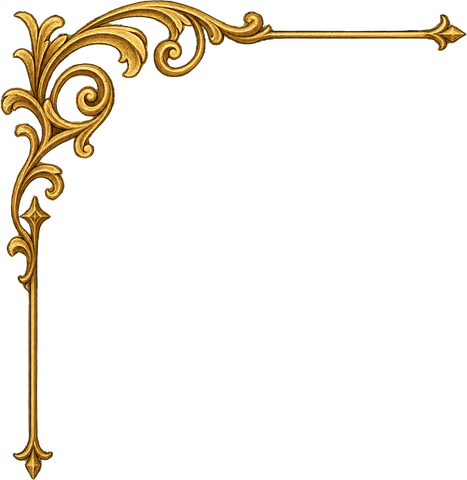
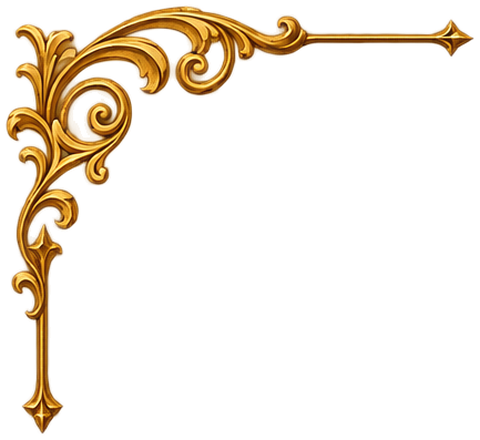
Decorate mail + hamburger-menu screens with the new ornament asset kit
User supplied a full sprite sheet (corners, dividers, wax seals, ribbons,
frames) and asked to place pieces across the UI "for beauty." Extracted
the pieces automatically via connected-component labeling on the alpha
channel (scipy.ndimage.label) rather than asking for hand-cut assets —
confirmed the sheet's "red glow" complaint was just non-premultiplied
alpha (garbage RGB left under fully-transparent pixels, which some
viewers blend in at edges); zeroed it out during extraction and the
red haze is gone.

Applied, scoped to what's clearly additive and safe:
- images/ui/mail-corner.png swapped for a richer, more detailed corner
  flourish from the new kit (same filename, no markup changes needed).
- New images/ui/mail-divider.png (plain gold bar) under the mail tab row,
  replacing a flat CSS border-top.
- New images/ui/mail-seal.png (round wax seal) replaces icon-army.png as
  the battle-report list icon, still tinted win/lose via the existing
  CSS filters.
- Gold corner flourishes added to #menu-modal itself (static markup, not
  regenerated per-tab) — benefits Войско/Генерал/Инвентарь/Профиль in one
  change. Deliberately did NOT touch #menu-modal's dark vellum-on-wood
  color scheme to match the light-parchment reference screenshots (that's
  a much bigger, harder-to-reverse redesign decision than "add decor" —
  gold reads well on dark too, so the corners work without it).

Verified: no 404s for any of the new/changed assets, screenshots of the
[…]

Changed region(s): [[0.0, 0.0, 1.0, 1.0]]

diff --git a/index.html b/index.html
@@ -285,6 +285,21 @@ body::before{content:"";position:fixed;inset:0;pointer-events:none;z-index:0;
 #menu-modal{position:fixed;inset:0;z-index:25;display:none;background:rgba(8,5,2,.72);
   overflow-y:auto}
 #menu-modal.open{display:block}
+/* Золотые уголки поверх тёмной подложки #menu-modal — тот же ассет, что и
+   в почте (.mail-corner), не нужно менять тёмную цветовую схему Войска/
+   Генерала/Инвентаря/Профиля целиком ради декора: золото на тёмном фоне
+   само по себе смотрится нарядно. position:fixed (не absolute), потому что
+   #menu-modal сам по себе fixed и скроллится своим overflow-y — уголки
+   должны оставаться приклеенными к углам ЭКРАНА, а не уезжать со скроллом
+   контента. Лежат в статичной разметке #menu-modal (см. index.html), а не
+   генерируются в каждой foArmy/foGen/foInv/foMail — иначе живое обновление
+   #menu-modal-body раз в секунду пересоздавало бы и их без всякой пользы. */
+.menu-corner{position:fixed;width:110px;height:auto;pointer-events:none;
+  opacity:.8;z-index:24}
+.menu-corner.tl{top:0;left:0}
+.menu-corner.tr{top:0;right:0;transform:scaleX(-1)}
+.menu-corner.bl{bottom:0;left:0;transform:scaleY(-1)}
+.menu-corner.br{bottom:0;right:0;transform:scale(-1,-1)}
 #menu-modal-body{max-width:560px;margin:0 auto;padding:60px 16px 30px}
 #menu-modal-close{position:fixed;top:14px;right:14px;z-index:26;width:38px;height:38px;
   border-radius:50%;background:rgba(22,17,11,.9);border:1px solid var(--gilt-dim);
@@ -438,8 +453,9 @@ body::before{content:"";position:fixed;inset:0;pointer-events:none;z-index:0;
 .mail-tabs button.on{background:rgba(236,226,202,.9);color:#2c2114;font-weight:bold}
 .mail-tabs button .n{position:absolute;top:-6px;right:2px;min-width:15px;height:15px;padding:0 3px;
   border-radius:8px;background:#8a2f22;color:#fce9c9;font-size:9.5px;line-height:15px;font-family:var(--data)}
+.mail-divider{display:block;width:100%;height:auto;position:relative;z-index:2;opacity:.85}
 .mail-list{flex:1;min-height:0;overflow-y:auto;position:relative;z-index:2;
-  border-top:1px solid rgba(90,69,48,.35);background:rgba(236,226,202,.55)}
+  background:rgba(236,226,202,.55)}
 .mail-row{display:flex;align-items:center;gap:10px;padding:11px 14px;
   border-bottom:1px solid rgba(90,69,48,.22)}
 .mail-row .ico{width:30px;height:30px;border-radius:50%;flex:0 0 auto;object-fit:contain;
@@ -456,7 +472,7 @@ body::before{content:"";position:fixed;inset:0;pointer-events:none;z-index:0;
 .mail-empty{padding:40px 20px;text-align:center;color:#5a4530;font-size:13px;font-style:italic;
   position:relative;z-index:2}
 .mail-detail{flex:1;min-height:0;overflow-y:auto;position:relative;z-index:2;padding:16px 16px 8px;
-  border-top:1px solid rgba(90,69,48,.35);background:rgba(236,226,202,.55)}
+  background:rgba(236,226,202,.55)}
 .mail-back{display:flex;align-items:center;gap:6px;color:#5a4530;font-size:12.5px;
   font-variant:small-caps;letter-spacing:.08em;margin-bottom:12px}
 .mail-note{font-size:13.5px;line-height:1.6;color:#2c2114;padding:6px 2px}
@@ -788,7 +804,12 @@ body::before{content:"";position:fixed;inset:0;pointer-events:none;z-index:0;
   <button data-menu="gen" aria-label="Генерал"><img src="images/ui/icon-gen.png" alt=""><span>Генерал</span></button>
   <button data-menu="inv" aria-label="Инвентарь"><img src="images/ui/icon-inv.png" alt=""><span>Инвентарь</span></button>
 </nav>
-<div id="menu-modal"><button id="menu-modal-close" data-act="closemenu">&times;</button><div id="menu-modal-body"></div></div>
+<div id="menu-modal">
+  <img class="menu-corner tl" src="images/ui/mail-corner.png" alt="">
+  <img class="menu-corner tr" src="images/ui/mail-corner.png" alt="">
+  <img class="menu-corner bl" src="images/ui/mail-corner.png" alt="">
+  <img class="menu-corner br" src="images/ui/mail-corner.png" alt="">
+  <button id="menu-modal-close" data-act="closemenu">&times;</button><div id="menu-modal-body"></div></div>
 
 <div id="building-modal"><div id="bm-sheet">
   <button id="bm-close" data-act="closebuilding"><span>&times;</span></button>
@@ -4583,7 +4604,7 @@ function mailAvatarHtml(avatar,race,w){
 }
 function mailRowHtml(m){
   const isBattle=m.kind==="battle";
-  const icon = isBattle ? "images/ui/icon-army.png" : m.cat==="personal" ? "images/ui/icon-gen.png" : "images/ui/icon-world.png";
+  const icon = isBattle ? "images/ui/mail-seal.png" : m.cat==="personal" ? "images/ui/icon-gen.png" : "images/ui/icon-world.png";
   const cls = isBattle ? (m.win?"win":"lose") : "";
   const title = isBattle ? (m.win?"Победа":"Поражение") : m.title;
   const sub = isBattle ? (m.attacker?"Вы атаковали "+m.oppNick:"Вас атаковал "+m.oppNick) : m.body;
@@ -4632,6 +4653,7 @@ function foMail(){
     return "<button data-act='mailtab' data-cat='"+cat+"' class='"+(mailCat===cat&&!openEntry?"on":"")+"'>"+
       label+(n?"<span class='n'>"+n+"</span>":"")+"</button>";
   }).join("")+"</div>";
+  h+="<img class='mail-divider' src='images/ui/mail-divider.png' alt=''>";
   if(openEntry){
     h+="<div class='mail-detail'>"+mailDetailHtml(openEntry)+"</div>";
     h+="<div class='mail-bar'>"+
